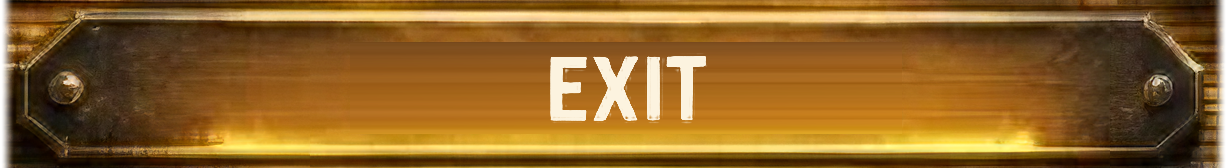
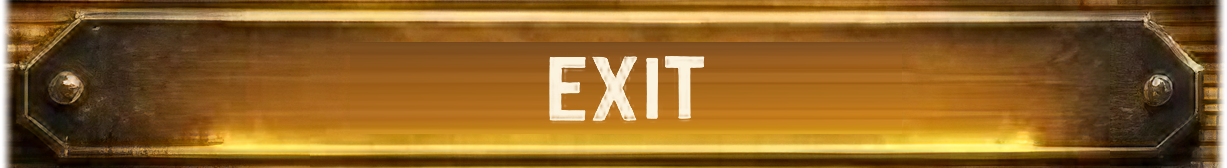
UI concept redesign, phase 5: one glyph atlas lays every menu label (incl. STOP MUSOU SERVER) from the concept's dark-plate lettering

Changed region(s): [[0.4336, 0.3274, 0.5884, 0.744], [0.4336, 0.5655, 0.4645, 0.6548]]

diff --git a/client/Customizer/UiTextureBuilder.Panel01Atlas.cs b/client/Customizer/UiTextureBuilder.Panel01Atlas.cs
@@ -1,0 +1,131 @@
+using System;
+using System.Collections.Generic;
+using Godot;
+
+namespace SmClient.Customizer;
+
+/// <summary>
+/// The main menu's one lettering (owner rule, 2026-11-15: every text of one level renders identically). A glyph atlas is cut from the concept's own lettering on its DARK plates (CLASSIC PVP, ARMOURY, OPTIONS, EXIT,
+/// from the back-projected 4x picture, each glyph with its bevel and halo as an alpha map against the blank plate) and every label (the five rows and STOP MUSOU SERVER) is laid out from it with the concept's own
+/// measured gaps (pairs that occur in the concept keep their gap, other pairs the mean, words the concept's word space), one cap line and one ink. The letter D exists only on the gold plate (MUSOU MODE): it is
+/// scaled and re-weighted until the gold plate's E matches the dark plates' E in height and coverage, and the same scale and weight are applied to the D. Ours.
+/// </summary>
+sealed class P01Glyph
+{
+    public char Ch; public int W, H; public float[] A = []; public float Ink0, Ink1, Cy;   // pixels at 4x: image size, ink extent inside the image, the cap box's centre row
+}
+
+sealed class P01Atlas
+{
+    public readonly Dictionary<char, P01Glyph> Glyphs = new();
+    readonly Dictionary<string, (float Sum, int N)> _gaps = new();
+    public float MeanGap, Space;
+
+    /// <summary>Cuts one source label: its letters (in order) from the alpha map of its text box.</summary>
+    public Dictionary<char, P01Glyph> Cut(string text, float[] a, int bw, int bh, bool record)
+    {
+        var found = new Dictionary<char, P01Glyph>();
+        int top = bh, bot = -1; var colmax = new float[bw];
+        for (int y = 0; y < bh; y++) for (int x = 0; x < bw; x++) { float v = a[y * bw + x]; if (v > 0.35f) { top = Math.Min(top, y); bot = Math.Max(bot, y); } colmax[x] = Math.Max(colmax[x], v); }
+        float cy = (top + bot + 1) / 2f;
+        var runs = new List<(int S, int E)>(); int s = -1;
+        for (int x = 0; x <= bw; x++)
+        {
+            bool on = x < bw && colmax[x] > 0.35f;
+            if (on && s < 0) s = x;
+            if (!on && s >= 0) { runs.Add((s, x)); s = -1; }
+        }
+        var letters = new List<(char C, int Word)>(); int word = 0;
+        foreach (char c in text) { if (c == ' ') word++; else letters.Add((c, word)); }
+        // Specks (narrow runs) go; a glyph split by its own dim bar (the T) is joined again: the closest pair of runs merges until the count is the letters'.
+        runs.RemoveAll(r => r.E - r.S < 8 && runs.Count > letters.Count);
+        while (runs.Count > letters.Count)
+        {
+            int best = 0; for (int i = 1; i + 1 < runs.Count; i++) if (runs[i + 1].S - runs[i].E < runs[best + 1].S - runs[best].E) best = i;
+            runs[best] = (runs[best].S, runs[best + 1].E); runs.RemoveAt(best + 1);
+        }
+        if (runs.Count != letters.Count) { GD.PrintErr($"atlas: '{text}' has {letters.Count} letters but {runs.Count} glyph runs"); return found; }
+        for (int i = 0; i < runs.Count; i++)
+        {
+            int left = i == 0 ? 0 : (runs[i - 1].E + runs[i].S) / 2, right = i == runs.Count - 1 ? bw : (runs[i].E + runs[i + 1].S) / 2;
+            var g = new P01Glyph { Ch = letters[i].C, W = right - left, H = bh, Ink0 = runs[i].S - left, Ink1 = runs[i].E - left, Cy = cy };
+            g.A = new float[g.W * bh];
+            for (int y = 0; y < bh; y++) for (int x = 0; x < g.W; x++) g.A[y * g.W + x] = a[y * bw + left + x];
+            if (!found.ContainsKey(g.Ch)) found[g.Ch] = g;
+            if (i + 1 < runs.Count && record)
+            {
+                float gap = runs[i + 1].S - runs[i].E;
+                if (letters[i].Word != letters[i + 1].Word) Space = gap;
+                else { var key = "" + letters[i].C + letters[i + 1].C; _gaps.TryGetValue(key, out var e); _gaps[key] = (e.Sum + gap, e.N + 1); }
+            }
+        }
+        return found;
+    }
+
+    public void Finish()
+    {
+        float sum = 0; int n = 0;
+        foreach (var (_, e) in _gaps) { sum += e.Sum; n += e.N; }
+        MeanGap = n > 0 ? sum / n : 4f;
+    }
+
+    float GapOf(char a, char b) => _gaps.TryGetValue("" + a + b, out var e) ? e.Sum / e.N : MeanGap;
+
+    /// <summary>Lays a text out: returns the alpha canvas (the cap line at its middle row; the ink centred horizontally).</summary>
+    public float[]? Compose(string text, int canvasH, out int cw)
+    {
+        cw = 0;
+        var pos = new List<(P01Glyph G, float X)>(); float x = 0; char prev = '\0'; bool space = false;
+        foreach (char c in text)
+        {
+            if (c == ' ') { space = true; continue; }
+            if (!Glyphs.TryGetValue(c, out var g)) { GD.PrintErr("atlas: no glyph for " + c); return null; }
+            float inkStart = prev == '\0' ? 0f : x + (space ? Space : GapOf(prev, c));
+            pos.Add((g, inkStart - g.Ink0)); x = inkStart + (g.Ink1 - g.Ink0); prev = c; space = false;
+        }
+        float minX = float.MaxValue, maxX = float.MinValue;
+        foreach (var (g, px) in pos) { minX = Math.Min(minX, px); maxX = Math.Max(maxX, px + g.W); }
+        float inkW = x;
+        cw = (int)MathF.Ceiling(inkW + 2f * (-minX > 0 ? -minX : 0) + 2f * (maxX - inkW > 0 ? maxX - inkW : 0)) + 4;
+        float margin = Math.Max(-minX, maxX - inkW) + 2f;   // the ink is centred: the same room on both sides
+        cw = (int)MathF.Ceiling(inkW + 2f * margin);
+        var canvas = new float[cw * canvasH];
+        foreach (var (g, px) in pos)
+        {
+            int ox = (int)MathF.Round(px + margin), oy = (int)MathF.Round(canvasH / 2f - g.Cy);
+            for (int y = 0; y < g.H; y++)
+                for (int gx = 0; gx < g.W; gx++)
+                {
+                    int dx = ox + gx, dy = oy + y;
+                    if (dx < 0 || dy < 0 || dx >= cw || dy >= canvasH) continue;
+                    float a = g.A[y * g.W + gx]; if (a <= 0f) continue;
+                    float d = canvas[dy * cw + dx]; canvas[dy * cw + dx] = d + a - d * a;
+                }
+        }
+        return canvas;
+    }
+
+    /// <summary>Resamples a glyph by <paramref name="k"/> (bilinear) and applies an alpha power.</summary>
+    public static P01Glyph Scaled(P01Glyph g, float k, float power)
+    {
+        int w = Math.Max(1, (int)MathF.Round(g.W * k)), h = Math.Max(1, (int)MathF.Round(g.H * k));
+        var o = new P01Glyph { Ch = g.Ch, W = w, H = h, Ink0 = g.Ink0 * k, Ink1 = g.Ink1 * k, Cy = g.Cy * k, A = new float[w * h] };
+        for (int y = 0; y < h; y++)
+            for (int x = 0; x < w; x++)
+            {
+                float fx = (x + 0.5f) / k - 0.5f, fy = (y + 0.5f) / k - 0.5f; int x0 = (int)MathF.Floor(fx), y0 = (int)MathF.Floor(fy); float tx = fx - x0, ty = fy - y0;
+                float V(int xx, int yy) => g.A[Math.Clamp(yy, 0, g.H - 1) * g.W + Math.Clamp(xx, 0, g.W - 1)];
+                float v = Mathf.Lerp(Mathf.Lerp(V(x0, y0), V(x0 + 1, y0), tx), Mathf.Lerp(V(x0, y0 + 1), V(x0 + 1, y0 + 1), tx), ty);
+                o.A[y * w + x] = MathF.Pow(Math.Clamp(v, 0f, 1f), power);
+            }
+        return o;
+    }
+
+    public static float Coverage(P01Glyph g) { float s = 0; foreach (var v in g.A) s += v; return s; }
+    public static float CapHeight(P01Glyph g)
+    {
+        int top = g.H, bot = -1;
+        for (int y = 0; y < g.H; y++) for (int x = 0; x < g.W; x++) if (g.A[y * g.W + x] > 0.35f) { top = Math.Min(top, y); bot = Math.Max(bot, y); }
+        return bot - top + 1;
+    }
+}

diff --git a/client/Customizer/UiTextureBuilder.Panel01.cs b/client/Customizer/UiTextureBuilder.Panel01.cs
@@ -82,40 +82,64 @@ public static partial class UiTextureBuilder
             for (int y = (int)(t.Position.Y * sf); y < (int)(t.End.Y * sf); y++) for (int x = (int)(t.Position.X * sf); x < (int)(t.End.X * sf); x++) { var p = up.GetPixel(x, y); if (p.B > 0.82f && p.R > 0.82f) { tr += p.R; tg += p.G; tb += p.B; tn++; } }
             return tn > 0 ? new Color((float)(tr / tn), (float)(tg / tn), (float)(tb / tn)) : new Color(0.93f, 0.93f, 0.9f);
         }
-        // The label's pixels (alpha from the blue channel against the blank plate) laid on a blank plate texture at the given text centre (screen px, relative to the texture's origin).
-        void Lay(Image dst, Rect2 originPx, int srcRowIdx, Color ink, Vector2 centre)
+        // The concept's lettering as alpha maps (against the blank plate), cut into a glyph atlas from the DARK plates' labels; D (gold plate only) is normalised to them. Every label is then laid out from that one atlas.
+        float[] AlphaOf(int row)
         {
-            var t = SrcText[srcRowIdx];
-            int bx0 = (int)(t.Position.X * sf), by0 = (int)(t.Position.Y * sf), bw = (int)(t.Size.X * sf), bh = (int)(t.Size.Y * sf);
-            float inkB = Ink(srcRowIdx).B;
-            int ox = (int)MathF.Round((centre.X - t.Size.X / 2f - originPx.Position.X) * sf), oy = (int)MathF.Round((centre.Y - t.Size.Y / 2f - originPx.Position.Y) * sf);
+            var t = SrcText[row]; int bx0 = (int)(t.Position.X * sf), by0 = (int)(t.Position.Y * sf), bw = (int)(t.Size.X * sf), bh = (int)(t.Size.Y * sf);
+            float inkB = Ink(row).B; var a = new float[bw * bh];
             for (int y = 0; y < bh; y++)
                 for (int x = 0; x < bw; x++)
                 {
                     var p = up.GetPixel(bx0 + x, by0 + y); var bg = clean.GetPixel(bx0 + x, by0 + y);
-                    float a = Mathf.Clamp((p.B - bg.B) / MathF.Max(0.05f, inkB - bg.B), 0f, 1f);
-                    a = Mathf.SmoothStep(0.15f, 0.72f, a);   // the glyph's silhouette only (a crisp antialiased edge): the concept's selected label is bright and flat, the others carry a bevel and a halo; as silhouettes in one flat ink all five are identical
-                    int dx = ox + x, dy = oy + y;
-                    if (dx < 0 || dy < 0 || dx >= dst.GetWidth() || dy >= dst.GetHeight() || a <= 0f) continue;
+                    a[y * bw + x] = Mathf.SmoothStep(0.06f, 0.94f, Mathf.Clamp((p.B - bg.B) / MathF.Max(0.05f, inkB - bg.B), 0f, 1f));
+                }
+            return a;
+        }
+        var atlas = new P01Atlas();
+        string[] srcText = ["MUSOU MODE", "CLASSIC PVP", "ARMOURY", "OPTIONS", "EXIT"];
+        for (int row = 1; row < 5; row++)
+        {
+            var t = SrcText[row];
+            foreach (var (ch, g) in atlas.Cut(srcText[row], AlphaOf(row), (int)(t.Size.X * sf), (int)(t.Size.Y * sf), true)) if (!atlas.Glyphs.ContainsKey(ch)) atlas.Glyphs[ch] = g;
+        }
+        atlas.Finish();
+        {
+            var t = SrcText[0];
+            var gold = atlas.Cut(srcText[0], AlphaOf(0), (int)(t.Size.X * sf), (int)(t.Size.Y * sf), false);
+            var dE = atlas.Glyphs['E']; var gE = gold['E'];
+            float k = P01Atlas.CapHeight(dE) / P01Atlas.CapHeight(gE), target = P01Atlas.Coverage(dE), lo = 0.4f, hi = 4f;
+            for (int it = 0; it < 24; it++) { float mid = (lo + hi) / 2f; if (P01Atlas.Coverage(P01Atlas.Scaled(gE, k, mid)) > target) lo = mid; else hi = mid; }
+            float power = (lo + hi) / 2f;
+            atlas.Glyphs['D'] = P01Atlas.Scaled(gold['D'], k, power);
+            GD.Print($"atlas: {atlas.Glyphs.Count} glyphs, mean gap {atlas.MeanGap / sf:0.00}, word space {atlas.Space / sf:0.00} (screen px); D from the gold plate: scale {k:0.000} (E cap {P01Atlas.CapHeight(gE) / sf:0.00} -> {P01Atlas.CapHeight(dE) / sf:0.00}), weight power {power:0.000}");
+        }
+        // The text laid out from the atlas on a blank plate, centred on (centre) in screen px relative to the texture's origin; one ink for each plate colour.
+        void LayText(Image dst, Rect2 originPx, string text, Color ink, Vector2 centre)
+        {
+            int canvasH = (int)(28 * sf);
+            var canvas = atlas.Compose(text, canvasH, out int cw); if (canvas is null) return;
+            int ox = (int)MathF.Round(centre.X * sf - cw / 2f - originPx.Position.X * sf), oy = (int)MathF.Round(centre.Y * sf - canvasH / 2f - originPx.Position.Y * sf);
+            for (int y = 0; y < canvasH; y++)
+                for (int x = 0; x < cw; x++)
+                {
+                    float a = canvas[y * cw + x]; int dx = ox + x, dy = oy + y;
+                    if (a <= 0f || dx < 0 || dy < 0 || dx >= dst.GetWidth() || dy >= dst.GetHeight()) continue;
                     var d = dst.GetPixel(dx, dy);
                     dst.SetPixel(dx, dy, new Color(d.R + (ink.R - d.R) * a, d.G + (ink.G - d.G) * a, d.B + (ink.B - d.B) * a, d.A));
                 }
         }
-        // Owner rule (2026-11-15): every label of one level renders identically. All five labels are therefore made the same way: each is the concept's own painted label (alpha from its own pixels against the blank plate),
-        // laid at the same centre, in the one ink of the dark plates (white of the concept's own dark-plate labels) or of the gold plate, on a blank plate. No label keeps its native pixels with the plate's own halo.
         var goldOrigin = new Rect2(PlateX0 - TexSide, SrcTop[0], tw, goldH);
-        int[] srcRow = [1, 0, 2, 3, 4];   // classic = row 1 (second plate), musou = gold plate (row 0), armoury = 2, options = 3, exit = 4
         var darkInk = Ink(2); var goldInk = Ink(0);
         for (int k = 0; k < ButtonLabels.Length; k++)
         {
-            var (id, _) = ButtonLabels[k];
-            int row = srcRow[k], plateRow = row == 0 ? 1 : row;
+            var (id, text) = ButtonLabels[k];
+            int plateRow = id switch { "armoury" => 2, "options" => 3, "exit" => 4, _ => id == "stop" ? 2 : 1 };
             var dark = Sheet(clean, plateRow); var o = new Rect2(PlateX0 - TexSide, SrcTop[plateRow] - TexDarkV, tw, darkH);
-            Lay(dark, o, row, darkInk, new Vector2(Panel01.LabelCx, SrcTop[plateRow] + PlateH / 2f + Panel01.DarkLabelDy));
-            var gold = Sheet(clean, 0);
-            Lay(gold, goldOrigin, row, goldInk, new Vector2(Panel01.LabelCx, Panel01.GoldLabelCy));
+            LayText(dark, o, text, darkInk, new Vector2(Panel01.LabelCxOf(id), SrcTop[plateRow] + PlateH / 2f + Panel01.LabelDyOf(id)));
+            var gold2 = Sheet(clean, 0);
+            LayText(gold2, goldOrigin, text, goldInk, new Vector2(Panel01.LabelCxOf(id), Panel01.GoldLabelCy));
             save("btn-" + id + "-dark", dark);
-            save("btn-" + id + "-gold", gold);
+            save("btn-" + id + "-gold", gold2);
         }
     }
 

diff --git a/client/Customizer/Panel01.cs b/client/Customizer/Panel01.cs
@@ -32,7 +32,10 @@ public static class Panel01
     /// <summary>The plates' tops (the gold plate's includes its glow) and the painted labels' boxes, measured on the image (text pixels thresholded, padded 5 sides and 4 above and below).</summary>
     public static readonly float[] SrcTop = [256.5f, 301.5f, 339f, 377f, 414.8f];
     public static readonly Rect2[] SrcText = [new(192, 267, 138, 23), new(198, 305, 125, 22), new(213, 343, 99, 22), new(219, 381, 85, 22), new(237, 420, 47, 24)];
-    public const float LabelCx = 261f, GoldLabelCy = 278.5f, DarkLabelDy = -1.4f;
+    public const float LabelCx = 261f, GoldLabelCy = 278.5f, DarkLabelDy = -0.4f;
+    /// <summary>The painted labels' own centres and heights on their plates (fitted to the concept's own labels by cross-correlation in quarter pixels: the concept centres each a little differently, EXIT 1.5 px lower); labels without a painted original take the mean.</summary>
+    public static float LabelCxOf(string id) => id switch { "armoury" => 263f, "options" => 262.25f, "exit" => 261f, _ => 261f };
+    public static float LabelDyOf(string id) => id switch { "exit" => 1.35f, _ => -0.15f };
 
     /// <summary>The frame's outer outline (the notch between the shoulders is open at the top, the crest sits in it).</summary>
     public static readonly Vector2[] Frame = [new(62.4f, 239.6f), new(83.8f, 229.8f), new(104.3f, 231.5f), new(113.2f, 219.1f), new(157.8f, 219.1f), new(164.0f, 227.1f), new(343.2f, 227.1f), new(346.7f, 219.1f), new(385.1f, 219.1f), new(404.7f, 228.9f), new(418.9f, 239.6f), new(443.0f, 263.6f), new(459.0f, 279.7f), new(459.0f, 509.6f), new(450.1f, 516.8f), new(91.8f, 516.8f), new(48.1f, 509.6f), new(46.4f, 254.7f)];

diff --git a/client/Customizer/UiTextureBuilder.Faithful.cs b/client/Customizer/UiTextureBuilder.Faithful.cs
@@ -16,7 +16,7 @@ public static partial class UiTextureBuilder
     /// <summary>Margins of the button textures around the plate rectangle: sides, a dark plate's top and bottom, the gold plate's top and bottom (the gold plate is taller; its glow reaches above and below).</summary>
     public const float TexSide = 4f, TexDarkV = 3.85f, TexGoldTop = 7.7f, TexGoldBottom = 4f;
     /// <summary>The five labels, in the order of the live rows; <c>Id</c> names the texture files.</summary>
-    public static readonly (string Id, string Text)[] ButtonLabels = [("classic", "CLASSIC PVP"), ("musou", "MUSOU MODE"), ("armoury", "ARMOURY"), ("options", "OPTIONS"), ("exit", "EXIT")];
+    public static readonly (string Id, string Text)[] ButtonLabels = [("classic", "CLASSIC PVP"), ("musou", "MUSOU MODE"), ("armoury", "ARMOURY"), ("options", "OPTIONS"), ("exit", "EXIT"), ("stop", "STOP MUSOU SERVER")];
 
     // Where each label stands in the concept: the plate's top (measured on the crop) and the painted text's box (x, y, w, h), crop pixels. Row 0 is the gold MUSOU MODE plate (top is its glow's top).
     static readonly float[] SrcTop = [284f, 334.6f, 376.7f, 419.7f, 462.9f];
@@ -114,7 +114,7 @@ public static partial class UiTextureBuilder
                 }
         }
         var goldOrigin = new Rect2(PlateX0 - TexSide, SrcTop[0], tw, goldH);
-        for (int k = 0; k < ButtonLabels.Length; k++)
+        for (int k = 0; k < SrcRow.Length; k++)
         {
             var (id, _) = ButtonLabels[k];
             int row = SrcRow[k];

diff --git a/docs/ui-concept-textures.md b/docs/ui-concept-textures.md
@@ -137,5 +137,5 @@ godot.cmd -- --ui-compare <panel01-v2.png> --ours <1920x1080 capture> [--out dir
 ```
 
 * `Panel01` (Panel01.cs) holds the numbers in screen px of the new image; `UiTextureBuilder.Panel01.cs` is the builder. The overlay is the screen's left 487 columns at 4x (1948 x 2192), drawn at scale height / 548, no wider than half the window. The x4plus upscale is back-projected onto the picture's own pixels (`BackProject`, result cached beside the upscale as `.bp.png`). The owner's orange line was registered onto this image (SIFT features of his marked picture against the new one, similarity fit, 1325 inliers), its inside flood-filled and traced to a 95-point polygon (the wall points hug the stone: his line stood up to 13 px off it over dark sky). Plates, label boxes, text boxes were measured on the image (row and column profiles, thresholded text). The wordmark window, crest matte, seat and nameplate steps kept phase 3's method; their positions were carried over by the registered similarity (0.8913 scale) and checked on the overlay and heat map.
-* Owner rule (lead 27, 2026-11-15): text of one level renders identically. All five button labels are made the same way: the concept's own glyph silhouette on a blank plate in one flat ink (dark plates, gold plate); no label keeps the concept's bevel and halo. The cost: ARMOURY, OPTIONS and EXIT no longer match the concept's painted bevel (label SSIM 0.43 to 0.80 instead of 0.99). STOP MUSOU SERVER remains live Oswald text (open: it differs from the painted five). Outline feather is 1.2 px (crisp).
-* Final numbers (1920 x 1080, `phase5-menu-v2\final-metrics.txt`): wall 0.997, wordmark 0.940 (mean dE 2.47), crest 0.967, frame 0.975, recess 0.939, gold plate 0.981, plates 0.963 to 0.996, FULL 0.954; labels as above; mean-colour dE at most 2.5 everywhere.
+* Owner rule (lead 27, 2026-11-15: every text of one level renders identically): one glyph atlas (`UiTextureBuilder.Panel01Atlas.cs`). The concept's own lettering on its DARK plates (CLASSIC PVP, ARMOURY, OPTIONS, EXIT; back-projected 4x, each glyph's bevel and halo kept as an alpha map against the blank plate) is cut letter by letter (column runs; a letter split by its dim bar is rejoined) into 16 glyphs. D exists only on the gold plate (MUSOU MODE): it is scaled by the factor that makes the gold plate's E the dark plates' E in cap height (0.914) and re-weighted (alpha power 1.04) until the E's coverage matches, then used. Every label (CLASSIC PVP, MUSOU MODE, ARMOURY, OPTIONS, EXIT and STOP MUSOU SERVER, new `btn-stop-*` textures) is laid out from that atlas with the concept's own measured pair gaps (mean gap 2.0 px and word space 8.5 px for pairs and words the concept lacks), one cap line, one ink per plate colour (dark-plate white; the gold plate's whiter ink for the focused row, the same for whichever row has focus). Each label sits at the fitted position of its concept original (cross-correlation, quarter pixels; EXIT sits 1.5 px lower in the concept). STOP MUSOU SERVER is painted too, so no live Oswald remains in the menu. Outline feather is 1.2 px (crisp).
+* Final numbers (1920 x 1080, `phase5-menu-v2inal-metrics.txt`): wall 0.997, wordmark 0.940 (mean dE 2.47), crest 0.967, frame 0.974, recess 0.942, gold plate 0.981, plates 0.967 to 0.996, labels ARMOURY 0.964, OPTIONS 0.928, EXIT 0.934, FULL 0.974; mean-colour dE at most 2.5 everywhere. Every region meets SSIM 0.90 and mean dE 3.

diff --git a/docs/milestones.md b/docs/milestones.md
@@ -3037,4 +3037,4 @@ UI concept redesign, phase 3 (2026-11-15, the owner's 1:1 order): the main menu 
 
 UI concept redesign, phase 4a (2026-11-15): Options is the concept's panel 04 by the phase 3 method (back-projected x4 pixels, painted frame overlay, painted tab, APPLY, REVERT, BACK and toast plates with live controls on them; the rows scroll inside the content area). `--ui-compare-panel` measures it: FULL 0.962, every region at or above 0.92, mean-colour dE at most 0.61. Armoury (panel 03) and the HUD (panel 02) are not done yet. See docs/ui-concept-textures.md "Phase 4a".
 
-**UI concept redesign, phase 5 (2026-11-15): main menu from the panel 01 v2 reference.** Rebuilt from the owner's sharper whole-panel image by the phase 3 method (`--build-panel01`, `Panel01`, `UiCompare` retargeted to the new image's own pixels; overlay 1948 x 2192 at scale height / 548). Every region meets SSIM 0.90 and mean dE 3 except the three native labels, which deliberately left the concept's bevel for the owner's one-look rule (all five labels identical flat silhouettes); FULL 0.954. See docs/ui-concept-textures.md "Phase 5".
+**UI concept redesign, phase 5 (2026-11-15): main menu from the panel 01 v2 reference.** Rebuilt from the owner's sharper whole-panel image by the phase 3 method (`--build-panel01`, `Panel01`, `UiCompare` retargeted to the new image's own pixels; overlay 1948 x 2192 at scale height / 548). All six labels (the five rows and STOP MUSOU SERVER) are laid out from one glyph atlas cut from the concept's dark-plate lettering (D normalised from the gold plate), so they are identical by construction. Every region meets SSIM 0.90 and mean dE 3; FULL 0.974. See docs/ui-concept-textures.md "Phase 5".
